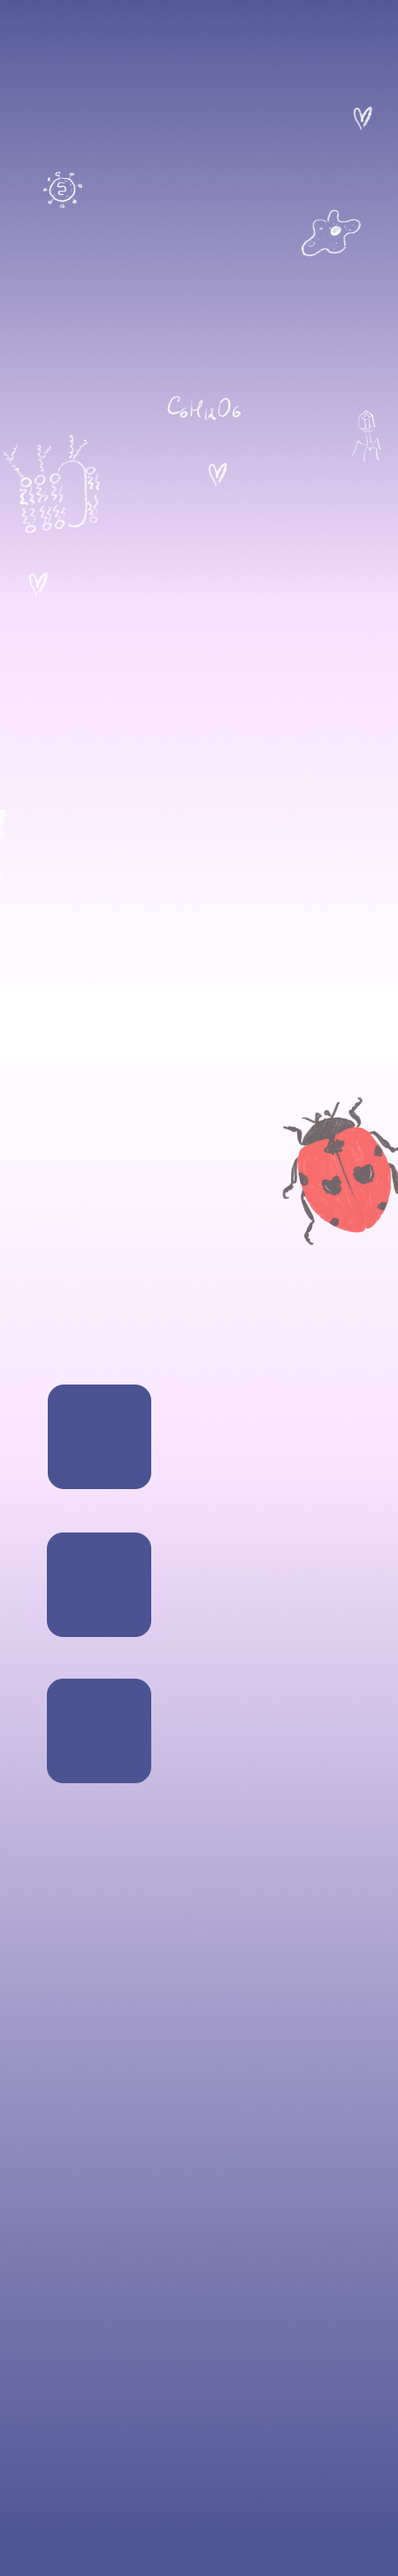
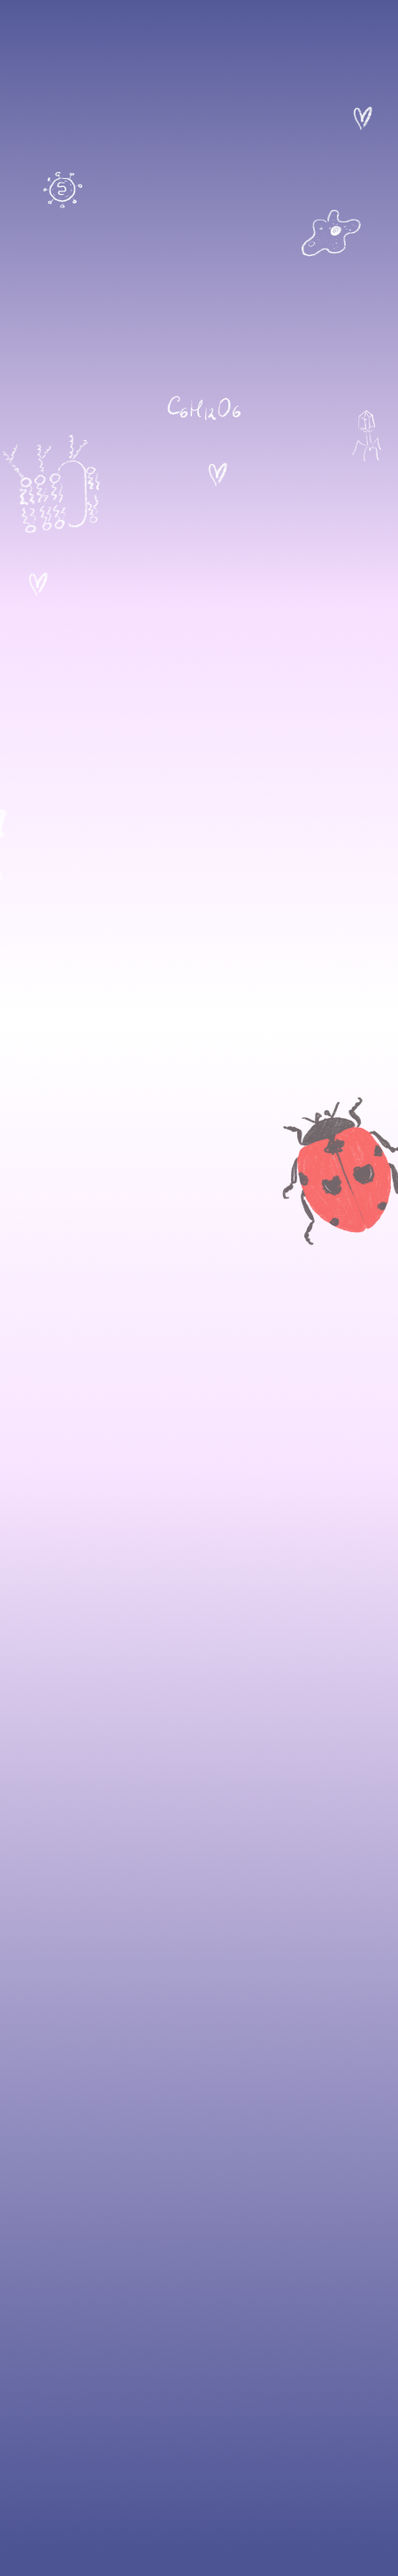
2 page mobil version

Changed region(s): [[0.0933, 0.5261, 0.4044, 0.7118]]

diff --git a/index.html b/index.html
@@ -122,6 +122,54 @@
                             class="visually-hidden">Следующий</span></button>
                 </div>
             </div>
+
+            <div class="page2__container_mobil">
+                <div class="page2__div2mobil">
+                    <div id="carouselExampleIndicators" class="carousel slide" data-bs-ride="carousel"
+                        style=" max-width: 42rem;">
+                        <div class="carousel-indicators page2__carousel mb-0 top-100 p-4 "><button type="button"
+                                data-bs-target="#carouselExampleIndicators" data-bs-slide-to="0"
+                                class="active bg-danger d-flex align-items-end" aria-current="true"
+                                aria-label="Slide 1"></button><button type="button "
+                                data-bs-target="#carouselExampleIndicators" data-bs-slide-to="1" class="bg-danger"
+                                aria-label="Slide 2"></button><button type="button"
+                                data-bs-target="#carouselExampleIndicators" data-bs-slide-to="2" class="bg-danger"
+                                aria-label="Slide 3"></button><button type="button" class="bg-danger"
+                                data-bs-target="#carouselExampleIndicators" data-bs-slide-to="3" class="bg-danger"
+                                aria-label="Slide 4"></button><button type="button"
+                                data-bs-target="#carouselExampleIndicators" data-bs-slide-to="4" class="bg-danger"
+                                aria-label="Slide 5"></button><button type="button"
+                                data-bs-target="#carouselExampleIndicators" data-bs-slide-to="5" class="bg-danger"
+                                aria-label="Slide 6"></button><button type="button"
+                                data-bs-target="#carouselExampleIndicators" data-bs-slide-to="6" class="bg-danger"
+                                aria-label="Slide 7"></button></div>
+                        <div class="carousel-inner rounded-3">
+                            <div class="carousel-item active" data-bs-interval="2000"><img
+                                    src="./assets/images/2page/img1.jpg" class="d-block w-100" alt="1"></div>
+                            <div class="carousel-item" data-bs-interval="2000"><img src="./assets/images/2page/img2.jpg"
+                                    class="d-block w-100" alt="2"></div>
+                            <div class="carousel-item" data-bs-interval="2000"><img src="./assets/images/2page/img3.jpg"
+                                    class="d-block w-100" alt="3"></div>
+                            <div class="carousel-item" data-bs-interval="2000"><img src="./assets/images/2page/img4.jpg"
+                                    class="d-block w-100" alt="4"></div>
+                            <div class="carousel-item" data-bs-interval="2000"><img src="./assets/images/2page/img5.jpg"
+                                    class="d-block w-100" alt="5"></div>
+                            <div class="carousel-item" data-bs-interval="2000"><img src="./assets/images/2page/img6.jpg"
+                                    class="d-block w-100" alt="6"></div>
+                            <div class="carousel-item" data-bs-interval="2000"><img src="./assets/images/2page/img7.jpg"
+                                    class="d-block w-100" alt="7"></div>
+                        </div><button class="carousel-control-prev" type="button"
+                            data-bs-target="#carouselExampleIndicators" data-bs-slide="prev"><span
+                                class="carousel-control-prev-icon" aria-hidden="true"></span><span
+                                class="visually-hidden">Предыдущий</span></button><button class="carousel-control-next"
+                            type="button" data-bs-target="#carouselExampleIndicators" data-bs-slide="next"><span
+                                class="carousel-control-next-icon" aria-hidden="true"></span><span
+                                class="visually-hidden">Следующий</span></button>
+                    </div>
+                </div>
+            </div>
+
+
             <div class="page2__div3">
                 <div class="page2__p3">
                     <p>24/7 поддержка </br>в телеграм чате</p>
@@ -268,21 +316,27 @@
             <h2>Контакты</h2>
             <div class="contacts__block">
                 <div class="contacts__block__tg"> <a href="https://t.me/elena_shramuk">Топовый телеграм 6000+</a></div>
-                <div class="contacts__block__youtube"><a href="https://www.youtube.com/@elena_shramuk">Божественный ютуб канал 2000+</a></div>
-                <div class="contacts__block__tiktok"><a href="https://www.tiktok.com/@lena_shramuk">Биологический тик-ток на 84к</a></div>
-                <div class="contacts__block__vk" target="_blank"><a href="https://vk.com/elena_biologia">Классный паблик ВК</a></div>
+                <div class="contacts__block__youtube"><a href="https://www.youtube.com/@elena_shramuk">Божественный ютуб
+                        канал 2000+</a></div>
+                <div class="contacts__block__tiktok"><a href="https://www.tiktok.com/@lena_shramuk">Биологический
+                        тик-ток на 84к</a></div>
+                <div class="contacts__block__vk" target="_blank"><a href="https://vk.com/elena_biologia">Классный паблик
+                        ВК</a></div>
                 <div class="contacts__block__photo">
                     <img src="./assets/images/contacts/photo.png" alt="Фото Лены">
                 </div>
                 <div class="contacts__block__icon">
                     <div class="contacts__block__icon__tg">
-                        <a href="https://t.me/lena_shramuk"> <img src="./assets/images/contacts/icon_tg.png" alt="Иконка Телеграма"></a>
+                        <a href="https://t.me/lena_shramuk"> <img src="./assets/images/contacts/icon_tg.png"
+                                alt="Иконка Телеграма"></a>
                     </div>
                     <div class="contacts__block__icon__wa">
-                        <a href="https://wa.me/79992059764"> <img src="./assets/images/contacts/icon_wa.png" alt="Иконка Ватсапа"></a>
+                        <a href="https://wa.me/79992059764"> <img src="./assets/images/contacts/icon_wa.png"
+                                alt="Иконка Ватсапа"></a>
                     </div>
                     <div class="contacts__block__icon__vk">
-                        <a href="https://vk.com/id108311971"><img src="./assets/images/contacts/icon_vk.png" alt="Иконка Вконтакте"></a>
+                        <a href="https://vk.com/id108311971"><img src="./assets/images/contacts/icon_vk.png"
+                                alt="Иконка Вконтакте"></a>
                     </div>
                 </div>
 
@@ -292,9 +346,10 @@
     <footer>
         <div class="footer__container">
             <div class="footer__container1">
-                <p class="footer__item1">Биология<br>с Еленой Шрамук</p><a href="#mainpage" class="footer__item2">Главная</a><a
-                    href="#about_teacher" class="footer__item3">О преподавателе</a><a href="#price" class="footer__item4">Цены</a><a
-                    href="#otzivy" class="footer__item5">Отзывы</a><a href="#contacts" class="footer__item6">Контакты</a>
+                <p class="footer__item1">Биология<br>с Еленой Шрамук</p><a href="#mainpage"
+                    class="footer__item2">Главная</a><a href="#about_teacher" class="footer__item3">О
+                    преподавателе</a><a href="#price" class="footer__item4">Цены</a><a href="#otzivy"
+                    class="footer__item5">Отзывы</a><a href="#contacts" class="footer__item6">Контакты</a>
             </div>
             <div class="footer__container2">
                 <p>Peony</p>

diff --git a/assets/styles/2page.css b/assets/styles/2page.css
@@ -1,47 +1,80 @@
-.page2 {
-    display: grid;
-    grid-template-areas: "page2__div1 page2__div2 page2__div3";
-    grid-template-columns: 1fr 1.5fr 1fr;
-    padding-top: 16%;
-    max-height: 110%;
+@media screen and (min-width: 601px) {
+
+    .page2 {
+        display: grid;
+        grid-template-areas: "page2__div1 page2__div2 page2__div3";
+        grid-template-columns: 1fr 1.5fr 1fr;
+        padding-top: 16%;
+        max-height: 110%;
+    }
+
+    .page2__div1 {
+        grid-area: page2__div1;
+        display: grid;
+        grid-template-areas: "page2__p1"
+            "page2__p2 ";
+        grid-template-rows: 1fr 1fr;
+        align-items: center;
+        justify-content: center;
+        text-align: center;
+    }
+
+    .page2__div2 {
+        grid-area: page2__div2;
+        display: grid;
+        justify-content: center;
+    }
+
+    .page2__div3 {
+        grid-area: page2__div3;
+        display: grid;
+        grid-template-areas: "page2__p3"
+            "page2__p4 ";
+        grid-template-rows: 1fr 1fr;
+        align-items: center;
+        justify-content: center;
+        text-align: center;
+    }
+
+    .page2__carousel {
+        padding-top: 52rem;
+
+    }
+
+    .page2__p1,
+    .page2__p2,
+    .page2__p3,
+    .page2__p4 {
+        font-size: 1.8rem;
+    }
+
+    .page2__div2mobil {
+        display: none;
+    }
 }
 
-.page2__div1 {
-    grid-area: page2__div1;
-    display: grid;
-    grid-template-areas: "page2__p1"
-        "page2__p2 ";
-    grid-template-rows: 1fr 1fr;
-    align-items: center;
-    justify-content: center;
-    text-align: center;
-}
+@media screen and (max-width: 600px) {
 
-.page2__div2 {
-    grid-area: page2__div2;
-    display: grid;
-    justify-content: center;
-}
 
-.page2__div3 {
-    grid-area: page2__div3;
-    display: grid;
-    grid-template-areas: "page2__p3"
-        "page2__p4 ";
-    grid-template-rows: 1fr 1fr;
-    align-items: center;
-    justify-content: center;
-    text-align: center;
-}
+    .page2__div2 {
+        display: none;
+    }
 
-.page2__carousel {
-    padding-top: 52rem;
+    .page2__p1,
+    .page2__p2,
+    .page2__p3,
+    .page2__p4 {
+        display: none;
+    }
 
-}
+    .page2__container_mobil {
+        display: grid;
+        padding: 4rem;
+        margin: 1rem 0rem 1rem 0rem;
+    }
 
-.page2__p1,
-.page2__p2,
-.page2__p3,
-.page2__p4 {
-    font-size: 1.8rem;
+    .page2__div2mobil {
+        display: grid;
+        justify-content: center;
+    }
 }

diff --git a/assets/styles/price.css b/assets/styles/price.css
@@ -15,7 +15,7 @@
 
 
 .price {
-    margin-top: 15vh;
+    margin-top: 25vh;
 }
 
 .price__h2 {
@@ -85,7 +85,7 @@
 
 .price__img1 {
 
-    background-image: url("/assets/images/price/img1.png");
+    background-image: url("../../assets/images/price/img1.png");
 
     background-repeat: no-repeat;
 
@@ -95,7 +95,7 @@
 
 .price__img1:hover {
 
-    background-image: url("/assets/images/price/img1-change.png");
+    background-image: url("../../assets/images/price/img1-change.png");
 
     background-repeat: no-repeat;
 
@@ -103,7 +103,7 @@
 
 .price__img2 {
 
-    background-image: url("/assets/images/price/img2.png");
+    background-image: url("../../assets/images/price/img2.png");
 
     background-repeat: no-repeat;
 
@@ -113,7 +113,7 @@
 
 .price__img2:hover {
 
-    background-image: url("/assets/images/price/img2-change.png");
+    background-image: url("../../assets/images/price/img2-change.png");
 
     background-repeat: no-repeat;
 
@@ -121,7 +121,7 @@
 
 .price__img3 {
 
-    background-image: url("/assets/images/price/img3.png");
+    background-image: url("../../assets/images/price/img3.png");
 
     background-repeat: no-repeat;
 
@@ -131,7 +131,7 @@
 
 .price__img3:hover {
 
-    background-image: url("/assets/images/price/img3-change.png");
+    background-image: url("../../assets/images/price/img3-change.png");
 
     background-repeat: no-repeat;
 
